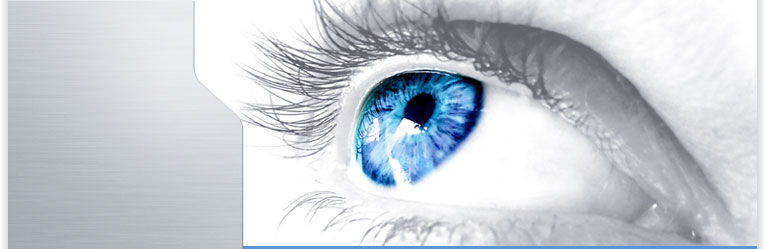
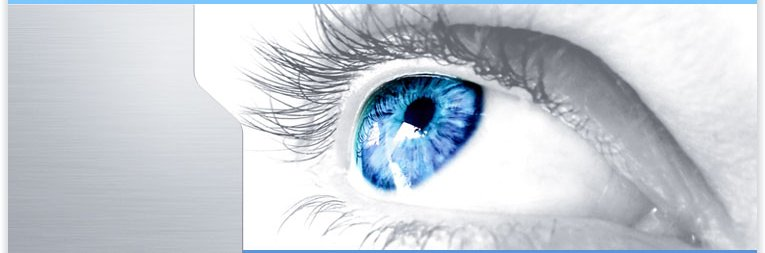
Positioning done
git-svn-id: https://svn.artran.webfactional.com/ti-visual/trunk@10 1beba2e3-0727-4f99-a42e-c968e9909459

diff --git a/media/css/ti-visual.css b/media/css/ti-visual.css
@@ -57,7 +57,7 @@ body {
 
 #menu-bar {
   width: 765px;
-  height: 19px;
+  height: 17px;
   background-image: url(/media/images/menu_bar.jpg);
   background-repeat: repeat-y;
   background-color: #4c05a6;
@@ -65,7 +65,7 @@ body {
   font-size: 12px;
   font-weight: bold;
   margin: 0;
-  padding: 0;
+  padding-top: 2px;
 }
 
 #menu-bar ul {
@@ -74,11 +74,13 @@ body {
 }
 
 #menu-bar li {
-  display: inline;
+  display: block;
+  float: left;
+  width: 90px;
 }
 
 #img-block {
-  height: 249px;
+  height: 253px;
 }
 
 #content {
@@ -87,31 +89,57 @@ body {
 	background-repeat: repeat-y;
 }
 
-#text-area {
-  color: white;
-  margin: 0 8px 0 243px;
-  width: 514px;
-}
-
 #side-menu {
-  position: absolute;
-  top: 0;
   color: white;
   margin: 0 0 0 8px;
   width: 235px;
+  border-top: 2px solid white;
 }
 
-#extra-links ul {
+#side-menu li {
+  height: 36px;
+  margin: 14px 0 14px 40px;
+}
+
+#text-area {
+  position: absolute;
+  top: 0;
+  color: white;
+  margin: 0 8px 0 243px;
   width: 514px;
-  padding-left: 243px;
+  border-top: 2px solid white;
+  line-height: 160%;
 }
 
-#extra-links li {
-  display: inline;
+#text-area p {
+  margin: 14px 9px 2em 0;
+}
+
+.emphasis {
+  font-size: 130%;
+  padding-right: 0.7ex;
+}
+
+#extra-links {
+  margin-left: 243px;
+  width: 514px;
+  height: 17px;
+}
+
+#extra-links p {
+  float: left;
   background-color: #5995da;
   color: white;
   font-size: 12px;
   width: 154px;
   height: 15px;
-  margin-top: 2px;
+  margin-right: 17px;
+  text-align: center;
+  border-top: 2px solid white;
+}
+
+#right-image {
+  position: absolute;
+  top: 25px;
+  left: 800px;
 }

diff --git a/templates/cms/article.html b/templates/cms/article.html
@@ -29,11 +29,22 @@
   </div>
 
   <div id="content">
+    <div id="side-menu">
+      <ul>
+        <li>home</li>
+        <li>about us</li>
+        <li>services</li>
+        <li>portfolio</li>
+        <li>resources</li>
+        <li>contact</li>
+      </ul>
+    </div>
+    
     <div id="text-area">
       <p>
-        Ti-Visual is a creative services company based in Chester, specializing in communicating
-        complex information in visual form, backed by a professional graphic design service including
-        design for print, web and multimedia.
+        <span class="emphasis">Ti-Visual</span> is a creative services company based in Chester,
+        specializing in communicating complex information in visual form, backed by a professional
+        graphic design service including design for print, web and multimedia.
       </p>
 
       <p>
@@ -42,24 +53,16 @@
         audience
       </p>
     </div>
-  
-    <div id="side-menu">
-      <ul>
-        <li>about us</li>
-        <li>services</li>
-        <li>portfolio</li>
-        <li>resources</li>
-        <li>contact</li>
-      </ul>
-    </div>
-  
+    
     <div id="extra-links">
-      <ul>
-        <li>Technical Illustration</li>
-        <li>Information Graphics</li>
-        <li>Graphic Design</li>
-      </ul>
+      <p>Technical Illustration</p>
+      <p>Information Graphics</p>
+      <p>Graphic Design</p>
     </div>
+  </div>
+  
+  <div id="right-image">
+    <img src="/media/images/vis_comm.gif" alt="visual communication" />
   </div>
   
   <div id="footer">
